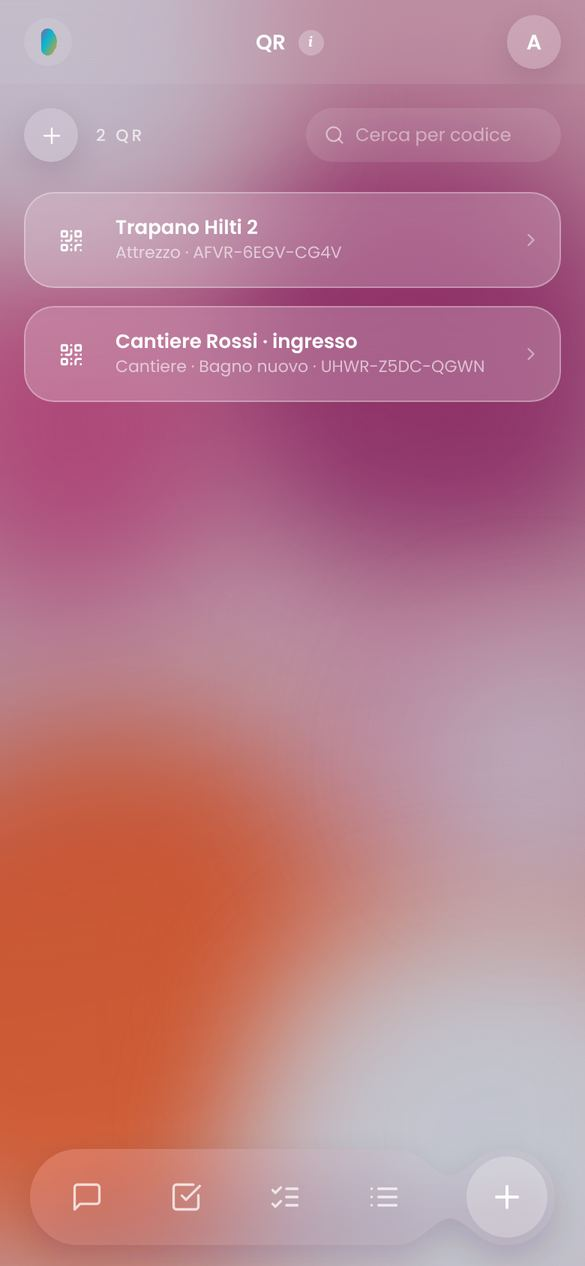
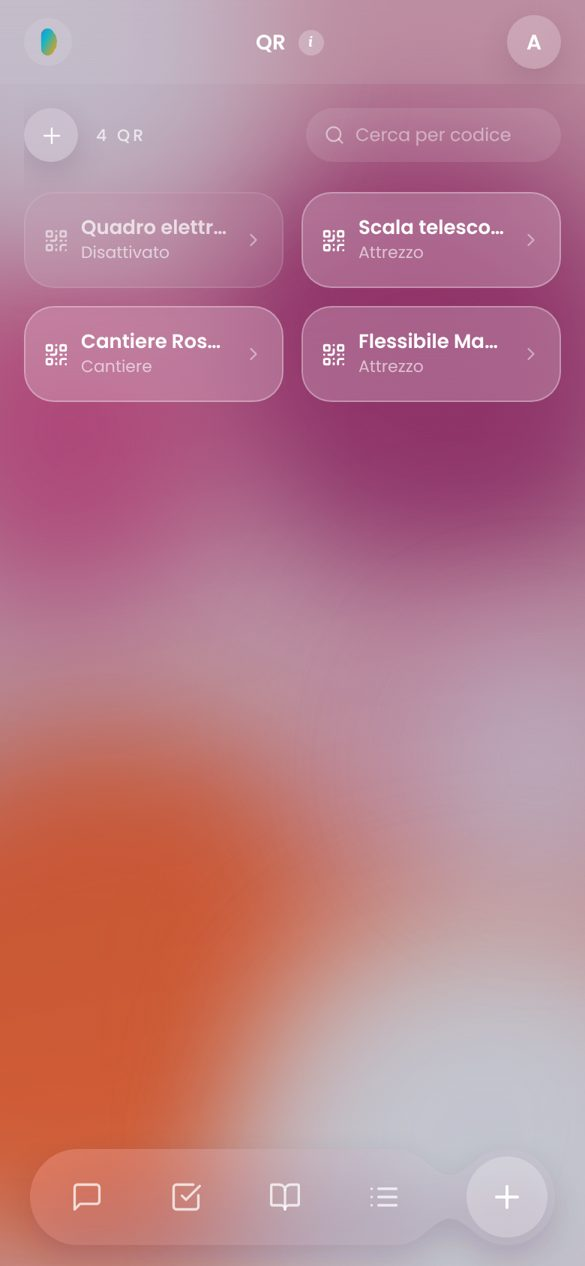
QR: elenco come Impostazioni (attivi / disattivati), dettaglio con solo il QR e i comandi sotto
- Elenco: griglia di due tessere come in Impostazioni, gli attivi in evidenza, i
  disattivati scuri con "Disattivato".
- Dettaglio: in alto freccia e nome del QR; un riquadro con solo il QR; sotto una riga
  con interruttore, stampa, scarica, condividi il link (share del telefono, altrimenti
  copia) e, separati, nuovo codice ed elimina; poi numeri, codice, tipo e contenuto.
- Tolto il pulsante Modifica in alto: "Modifica" accanto a Contenuto apre il modulo lì.
- Guida, FRONTEND.md e schermate aggiornate.

Claude-Session: https://claude.ai/code/session_01VfbXjVrWkHdaUBWCLnfX7C

diff --git a/frontend/src/pages/QrPage.jsx b/frontend/src/pages/QrPage.jsx
@@ -1,7 +1,7 @@
 import React, { useEffect, useRef, useState } from "react";
 import { useNavigate, useSearchParams } from "react-router-dom";
 import { toast } from "sonner";
-import { QrCode, Plus, ArrowLeft, ChevronRight, ChevronDown, Printer, Download, RefreshCw, Trash2, Link2, X, Check, FileText, Upload, Image as ImageIcon, Loader2, MapPin, Box, Crosshair, Search, Tag, Type, Briefcase, Eye, Palette, Maximize2, Pencil, History, Wrench } from "lucide-react";
+import { QrCode, Plus, ArrowLeft, ChevronRight, ChevronDown, Printer, Download, RefreshCw, Trash2, Link2, Share2, X, Check, FileText, Upload, Image as ImageIcon, Loader2, MapPin, Box, Crosshair, Search, Tag, Type, Briefcase, Eye, Palette, Maximize2, Pencil, History, Wrench } from "lucide-react";
 import { api, API } from "@/lib/api";
 import { useAuth } from "@/auth/AuthContext";
 import { phonePosition } from "@/pages/QrScanPage";
@@ -34,19 +34,22 @@ const CHANGED = { tool_item_id: "attrezzo", ar: "realtà aumentata", place: "luo
 // bottom bar under the finger and swallow the tap (see "Crea QR").
 const keepFocus = (e) => e.preventDefault();
 
+// a QR in the list, as the tiles of Impostazioni: the active ones lit, the turned-off ones dim
 function QrTile({ q, onOpen }) {
   return (
-    <div role="button" tabIndex={0} data-testid="qr-tile" onClick={onOpen} onKeyDown={(e) => { if (e.key === "Enter") onOpen(); }}
-      className={`w-full text-left rounded-[20px] px-3 h-[64px] flex items-center gap-3 backdrop-blur-xl cursor-pointer ${q.active ? "bg-white/[0.22] border border-white/30" : "bg-white/[0.07] border border-white/10"}`}>
-      <span className="w-9 h-9 rounded-xl bg-white/[0.12] flex items-center justify-center shrink-0"><QrCode size={17} /></span>
-      <span className="flex-1 min-w-0">
-        <span className="block text-[13px] font-semibold text-white leading-tight truncate" data-testid="qr-tile-title">{q.title}</span>
-        <span className="block text-[11px] text-white/60 leading-tight mt-0.5 truncate">
-          {q.kind_label}{q.visibility === "public" ? " · pubblico" : ""}{q.place?.on ? " · solo sul posto" : ""}{q.commessa ? ` · ${q.commessa.title}` : ""} · {q.code_label}{q.active ? "" : " · disattivato"}
+    <button type="button" data-testid="qr-tile" data-active={q.active ? "true" : "false"} onClick={onOpen}
+      className={`text-left rounded-[20px] px-3 h-[64px] flex flex-col justify-center backdrop-blur-xl transition-colors ${q.active ? "bg-white/[0.22] border border-white/30" : "bg-white/[0.07] border border-white/10"}`}>
+      <span className="flex items-center gap-2">
+        <QrCode size={17} className={`shrink-0 ${q.active ? "text-white" : "text-white/55"}`} />
+        <span className="flex-1 min-w-0">
+          <span className={`block text-[13px] font-semibold leading-tight whitespace-nowrap overflow-hidden text-ellipsis ${q.active ? "text-white" : "text-white/70"}`} data-testid="qr-tile-title">{q.title}</span>
+          <span className="block text-[11px] text-white/60 leading-tight mt-0.5 whitespace-nowrap overflow-hidden text-ellipsis">
+            {q.active ? q.kind_label : "Disattivato"}
+          </span>
         </span>
+        <ChevronRight size={14} className="shrink-0 text-white/45" />
       </span>
-      <ChevronRight size={14} className="shrink-0 text-white/45" />
-    </div>
+    </button>
   );
 }
 
@@ -380,12 +383,7 @@ function QrDetail({ id, commesse, onChanged, onDeleted, onBack }) {
   };
   useEffect(() => { load(); }, [id]); // eslint-disable-line react-hooks/exhaustive-deps
 
-  const back = (
-    <button onClick={onBack} data-testid="qr-back" className="flex items-center gap-1.5 text-sm text-white/70 h-11">
-      <ArrowLeft size={16} /> QR
-    </button>
-  );
-  if (!q) return <>{back}<div className="kicker">caricamento…</div></>;
+  if (!q) return <div className="kicker">caricamento…</div>;
   const set = (data) => { setQ(data); onChanged(data); };
   const act = async (fn, ok) => {
     setBusy(true);
@@ -401,64 +399,77 @@ function QrDetail({ id, commesse, onChanged, onDeleted, onBack }) {
     catch (e) { toast.error(e.response?.data?.detail || "Errore"); }
   });
   const setActive = (on) => act(() => api.patch(`/qr/${q.id}`, { active: on }), on ? "QR riattivato" : "QR disattivato: chi lo scansiona non vede niente");
-  const copyLink = () => { navigator.clipboard?.writeText(q.url); toast.success("Link copiato"); };
+  // the phone's own "share" (WhatsApp, mail...); where there isn't one, the link is copied
+  const shareLink = async () => {
+    if (navigator.share) {
+      try { await navigator.share({ title: q.title, url: q.url }); return; }
+      catch (e) { if (e?.name === "AbortError") return; }
+    }
+    try { await navigator.clipboard?.writeText(q.url); toast.success("Link copiato"); }
+    catch { toast.message(q.url); }
+  };
   const versions = q.versions || [];
   const t = q.tool;
 
   return (
     <div className="flex flex-col gap-3" data-testid="qr-detail">
-      {/* on top: back, and what changes the QR - on/off, edit, new code, delete */}
-      <div className="flex items-center gap-2" data-testid="qr-toolbar">
-        {back}
-        <div className="ml-auto flex items-center gap-2">
-          <IosSwitch checked={!!q.active} onChange={setActive} disabled={busy} label={q.active ? "Attivo: tocca per disattivarlo" : "Disattivato: tocca per riattivarlo"} testid="qr-toggle-active" />
-          <button type="button" onClick={() => setEditing((v) => !v)} aria-pressed={editing} data-testid="qr-edit" title="Modifica" aria-label="Modifica"
-            className={`${ROUND} ${editing ? "bg-white/85 text-[#7A2A5C]" : "bg-white/15 text-white"}`}><Pencil size={17} /></button>
-          <button type="button" onClick={newCode} disabled={busy} data-testid="qr-new-code" title="Nuovo codice" aria-label="Nuovo codice"
-            className={`${ROUND} bg-white/15 text-white`}><RefreshCw size={17} /></button>
-          <button type="button" onClick={remove} disabled={busy} data-testid="qr-delete" title="Elimina" aria-label="Elimina"
-            className={`${ROUND} bg-white/90 text-[#C0262D]`}><Trash2 size={17} /></button>
+      {/* on top: back, with the QR's name */}
+      <div className="flex items-center gap-1.5 min-w-0" data-testid="qr-toolbar">
+        <button onClick={onBack} data-testid="qr-back" aria-label="Torna ai QR" title="Torna ai QR"
+          className="h-10 w-8 -ml-1 shrink-0 flex items-center justify-center text-white/75"><ArrowLeft size={18} /></button>
+        <h2 className="min-w-0 text-[17px] font-semibold text-white leading-tight truncate" data-testid="qr-title-view">{q.title}</h2>
+      </div>
+
+      {/* the QR alone */}
+      <div className="card-soft p-6 flex justify-center" data-testid="qr-image-card">
+        <div className={`bg-white rounded-2xl p-2.5 shadow-sm transition-opacity ${q.active ? "" : "opacity-40"}`}>
+          <img src={q.images.svg} alt={`QR ${q.code_label}`} width={210} height={210} data-testid="qr-image" />
         </div>
       </div>
 
-      {/* the QR, with what identifies it and the three ways to take it out */}
-      <div className="card-soft p-5 flex flex-col gap-4">
-        <div className="flex flex-col items-center gap-3">
-          <div className={`bg-white rounded-2xl p-2.5 shadow-sm ${q.active ? "" : "opacity-50"}`}>
-            <img src={q.images.svg} alt={`QR ${q.code_label}`} width={196} height={196} data-testid="qr-image" />
-          </div>
-          <div className="text-center min-w-0 w-full">
-            <div className="text-lg font-semibold text-white leading-tight break-words" data-testid="qr-title-view">{q.title}</div>
-            <div className="font-mono text-[15px] tracking-wider text-white/85 mt-1" data-testid="qr-code-label">{q.code_label}</div>
-            <div className="flex flex-wrap justify-center gap-1.5 mt-2">
-              <span className="text-[11px] px-2.5 py-1 rounded-full bg-white/10 border border-white/15 text-white/80">{q.kind_label}</span>
-              <span className="text-[11px] px-2.5 py-1 rounded-full bg-white/10 border border-white/15 text-white/80">{q.visibility === "public" ? "Pubblico" : q.visibility === "admins" ? "Solo amministratori" : "Organizzazione"}</span>
-              {q.place?.on && <span className="text-[11px] px-2.5 py-1 rounded-full bg-white/10 border border-white/15 text-white/80">Solo sul posto</span>}
-              {!q.active && <span className="text-[11px] px-2.5 py-1 rounded-full bg-amber-300/15 border border-amber-300/30 text-amber-100" data-testid="qr-inactive">Disattivato</span>}
-            </div>
-          </div>
+      {/* one row: on/off, print, download, share the link - and, apart, new code and delete */}
+      <div className="mt-2 flex items-center justify-center gap-2.5" data-testid="qr-actions">
+        <IosSwitch checked={!!q.active} onChange={setActive} disabled={busy} label={q.active ? "Attivo: tocca per disattivarlo" : "Disattivato: tocca per riattivarlo"} testid="qr-toggle-active" />
+        <button type="button" onClick={() => setPrinting(true)} data-testid="qr-print" title="Stampa l'etichetta" aria-label="Stampa l'etichetta"
+          className={`${ROUND} bg-white/15 text-white`}><Printer size={18} /></button>
+        <a href={q.images.png} download={`QR-${q.code_label}.png`} data-testid="qr-download" title="Scarica il PNG" aria-label="Scarica il PNG"
+          className={`${ROUND} bg-white/15 text-white`}><Download size={18} /></a>
+        <button type="button" onClick={shareLink} data-testid="qr-copy-link" title={`Condividi il link: ${q.url}`} aria-label="Condividi il link"
+          className={`${ROUND} bg-white/15 text-white`}><Share2 size={18} /></button>
+        <span className="w-px h-7 bg-white/25 mx-1.5 shrink-0" aria-hidden="true" />
+        <button type="button" onClick={newCode} disabled={busy} data-testid="qr-new-code" title="Genera un nuovo codice" aria-label="Genera un nuovo codice"
+          className={`${ROUND} bg-white/15 text-white`}><RefreshCw size={18} /></button>
+        <button type="button" onClick={remove} disabled={busy} data-testid="qr-delete" title="Elimina" aria-label="Elimina"
+          className={`${ROUND} bg-white/90 text-[#C0262D]`}><Trash2 size={18} /></button>
+      </div>
+      <div className="text-center text-[12px] text-white/60 -mt-1" data-testid="qr-active-note">
+        {q.active ? "Attivo" : "Disattivato: chi lo scansiona non vede niente"}
+      </div>
+
+      {/* then the numbers and what identifies it */}
+      <div className="mt-3 card-soft p-5">
+        <StatTiles testid="qr-stats">
+          <StatTile label="Scansioni" value={q.scans || 0} testid="qr-stat-scans" />
+          <StatTile label="Foto e PDF" value={(q.files || []).length} testid="qr-stat-files" />
+          <StatTile label="Modifiche" value={versions.length} testid="qr-stat-versions" />
+        </StatTiles>
+        <div className="text-[11px] text-white/55 mt-3" data-testid="qr-last-scan">
+          {q.last_scan_at ? `Ultima scansione ${when(q.last_scan_at)}${q.last_scan_by_name ? ` · ${q.last_scan_by_name}` : ""}` : "Non ancora scansionato"}
         </div>
-        <div className="flex justify-center gap-4">
-          <button type="button" onClick={() => setPrinting(true)} data-testid="qr-print" title="Stampa l'etichetta" aria-label="Stampa l'etichetta"
-            className={`${ROUND} bg-white/90 text-[#7A2A5C]`}><Printer size={18} /></button>
-          <a href={q.images.png} download={`QR-${q.code_label}.png`} data-testid="qr-download" title="Scarica il PNG" aria-label="Scarica il PNG"
-            className={`${ROUND} bg-white/15 text-white`}><Download size={18} /></a>
-          <button type="button" onClick={copyLink} data-testid="qr-copy-link" title={`Copia il link: ${q.url}`} aria-label="Copia il link"
-            className={`${ROUND} bg-white/15 text-white`}><Link2 size={18} /></button>
-        </div>
-        <div className="border-t border-white/10 pt-4">
-          <StatTiles testid="qr-stats">
-            <StatTile label="Scansioni" value={q.scans || 0} testid="qr-stat-scans" />
-            <StatTile label="Foto e PDF" value={(q.files || []).length} testid="qr-stat-files" />
-            <StatTile label="Modifiche" value={versions.length} testid="qr-stat-versions" />
-          </StatTiles>
-          <div className="text-[11px] text-white/55 mt-3" data-testid="qr-last-scan">
-            {q.last_scan_at ? `Ultima scansione ${when(q.last_scan_at)}${q.last_scan_by_name ? ` · ${q.last_scan_by_name}` : ""}` : "Non ancora scansionato"}
-          </div>
+        <div className="mt-4 pt-3 border-t border-white/10 grid grid-cols-2 gap-x-4 gap-y-3">
+          <div className="min-w-0"><div className="text-[12px] text-white/60">Codice</div><div className="font-mono text-[14px] tracking-wider text-white mt-0.5" data-testid="qr-code-label">{q.code_label}</div></div>
+          <div className="min-w-0"><div className="text-[12px] text-white/60">Tipo</div><div className="text-sm text-white mt-0.5">{q.kind_label}</div></div>
         </div>
       </div>
 
-      <div className="pt-2"><GroupTitle>Contenuto</GroupTitle></div>
+      <div className="pt-2 flex items-center justify-between">
+        <GroupTitle>Contenuto</GroupTitle>
+        {!editing && (
+          <button type="button" onClick={() => setEditing(true)} data-testid="qr-edit" className="-mt-1 h-8 px-3 rounded-full bg-white/15 text-[12px] font-medium text-white inline-flex items-center gap-1.5">
+            <Pencil size={13} /> Modifica
+          </button>
+        )}
+      </div>
       {editing ? (
         <QrEditor initial={q} commesse={commesse} onCancel={() => setEditing(false)} onSaved={(d) => { set(d); setEditing(false); }} />
       ) : (
@@ -611,7 +622,7 @@ export default function QrPage() {
           </button>
         </div>
       ) : (
-        <div className="flex flex-col gap-3" data-testid="qr-list">
+        <div className="grid grid-cols-2 gap-3" data-testid="qr-list">
           {list.map((q) => <QrTile key={q.id} q={q} onOpen={() => setParams({ open: q.id })} />)}
         </div>
       )}

diff --git a/backend/help/mAIPAL-help.md b/backend/help/mAIPAL-help.md
@@ -517,13 +517,14 @@ Documenti è la tua **base di conoscenza**: tutto quello che hai caricato con Sa
 I **QR** sono etichette da attaccare in cantiere, su un attrezzo o in un punto (quadro elettrico, locale caldaia). Scansionandolo con il telefono si vedono le informazioni che l'amministratore ha scritto: solo chi è nella tua organizzazione (QR privato) oppure chiunque lo scansioni (QR pubblico).
 - **Chi li gestisce**: la sezione QR la vede solo l'amministratore. Gli altri del team aprono il QR scansionandolo.
 - **Crearne uno**: tocca **+**, dai un nome ("Cantiere Rossi · ingresso", "Trapano Hilti 2"), scegli il tipo (Cantiere, Attrezzo, Punto informativo, Altro), la commessa se c'è, il testo da mostrare (referente, accessi, avvisi) e i link utili (planimetrie, schede, cartella Drive).
-- **La pagina di un QR**: in alto, accanto a «← QR», l'**interruttore** (verde = attivo; spento = chi lo scansiona non vede niente finché non lo riaccendi) e tre pulsanti tondi: **matita** (modifica il contenuto), **frecce** (nuovo codice) e **cestino** (elimina, rosso su bianco). Sotto, il QR con nome, codice, tipo e chi lo vede, le tre icone **stampa**, **scarica** (immagine PNG) e **link** (copia l'indirizzo), i numeri (**Scansioni**, **Foto e PDF**, **Modifiche**) e l'ultima scansione; poi **Contenuto**, **Foto e PDF** e **Storico** (chi ha preso l'attrezzo e le modifiche).
-- **Cambiare il contenuto**: apri il QR e tocca la **matita** in alto. L'etichetta stampata resta la stessa: chi la scansiona vede subito il testo nuovo. In **Modifiche** trovi chi ha cambiato cosa e il testo di prima.
+- **L'elenco dei QR**: due per riga, come le voci di Impostazioni: quelli **attivi** sono chiari e in evidenza, quelli **disattivati** più scuri, con scritto «Disattivato».
+- **La pagina di un QR**: in alto la freccia per tornare e il **nome** del QR; sotto un riquadro con **solo il QR**. Sotto il QR, su una riga: l'**interruttore** (verde = attivo; spento = chi lo scansiona non vede niente finché non lo riaccendi), **stampa**, **scarica** (immagine PNG) e **condividi il link** (WhatsApp, mail…; dove il telefono non lo permette, il link viene copiato); un po' staccati, **genera un nuovo codice** (frecce) ed **elimina** (cestino rosso su bianco). Poi i numeri (**Scansioni**, **Foto e PDF**, **Modifiche**), l'ultima scansione, il **codice** stampato sotto l'etichetta e il tipo; poi **Contenuto**, **Foto e PDF** e **Storico** (chi ha preso l'attrezzo e le modifiche).
+- **Cambiare il contenuto**: tocca **Modifica** accanto a «Contenuto»: il modulo si apre lì. L'etichetta stampata resta la stessa: chi la scansiona vede subito il testo nuovo. In **Modifiche** trovi chi ha cambiato cosa e il testo di prima.
 - **QR di un attrezzo**: scegli il tipo **Attrezzo**. Per gli artigiani c'è la lista **Attrezzatura** (in Liste, condivisa con il team, creata da sola: nome, marca e modello, matricola, note, chi ce l'ha e da quando): nel campo **Attrezzo** scegli quello della lista, oppure lascia **Nuovo** e lo aggiungo io alla lista con il nome del QR. Chi scansiona il QR vede se l'attrezzo è **Disponibile** o chi ce l'ha e da quando, e i pulsanti **Prendi** (o **Lo prendo io**, se ce l'ha un collega) e **Restituisci** (chi ce l'ha, oppure un amministratore per chiunque). La lista Attrezzatura si aggiorna da sola (**Ce l'ha**, **Dal**) e nello **Storico** del QR l'amministratore vede chi l'ha preso e restituito.
 - **Solo in un luogo**: in **Dove si apre** scegli **Solo in un luogo**, poi dal menu **Punto** scegli **La mia posizione adesso** (se sei lì), **Il cantiere della commessa** o **Un indirizzo**, e da **Entro** la distanza (50 m, 100 m, 250 m, 500 m, 1 km). Con l'icona accanto alle coordinate riprendi la posizione. Chi scansiona il QR deve trovarsi entro quella distanza: il telefono chiede la posizione e, se è troppo lontano, mostra a che distanza si trova. Vale anche per le foto e i PDF del QR e anche per i QR pubblici (a chi non è dell'organizzazione non viene mostrato il nome del luogo). Gli amministratori lo aprono ovunque, con un avviso. La posizione serve solo a controllare la distanza e non viene salvata (per chi è dell'organizzazione resta solo la distanza). Attenzione: la posizione la dà il telefono e si può falsificare, quindi è un filtro in più, non una serratura: non usarlo come unica protezione per dati riservati.
 - **Foto e PDF**: nel QR aperto, **Carica file** (dal telefono: galleria, fotocamera o file), fino a 5 file da 10 MB. Per un QR collegato a una commessa puoi scegliere anche **Foto commessa**, senza ricaricarla. Chi scansiona il QR vede le foto e apre i PDF; li vede solo chi può aprire il QR (se è pubblico, chiunque lo scansioni). Alle foto viene tolta la posizione GPS. Un file tolto non si vede più scansionando, ma resta nelle **Modifiche** per l'amministratore; per aggiornare una planimetria, togli la vecchia e carica la nuova: l'etichetta resta la stessa.
 - **Aspetto del QR**: **mAIPAL** (predefinito per i QR nuovi) disegna il QR con la forma a goccia e i colori del logo, con il logo al centro; **Classico** è bianco e nero. Si leggono entrambi con qualsiasi telefono; il classico regge meglio stampe molto piccole o sbiadite. Se cambi aspetto conviene ristampare l'etichetta (quella vecchia si legge ancora). I QR creati prima restano classici.
-- **Stampare**: tocca l'icona della **stampante**: si apre un riquadro dove scegli il lato (3, 5 o 8 cm), poi **Stampa** apre l'etichetta pronta da stampare (anche su foglio adesivo), con il nome e il codice breve sotto il QR. L'icona con la **freccia in giù** la scarica come immagine PNG, quella della **catena** copia il suo indirizzo. Meglio etichette resistenti all'acqua.
+- **Stampare**: tocca l'icona della **stampante**: si apre un riquadro dove scegli il lato (3, 5 o 8 cm), poi **Stampa** apre l'etichetta pronta da stampare (anche su foglio adesivo), con il nome e il codice breve sotto il QR. L'icona con la **freccia in giù** la scarica come immagine PNG, quella di **condivisione** manda il suo indirizzo (o lo copia). Meglio etichette resistenti all'acqua.
 - **Chi lo vede**, lo scegli per ogni QR e lo cambi quando vuoi:
   - **Pubblico**: chiunque lo scansioni, anche senza account (clienti, fornitori, visitatori: per esempio il cartello di cantiere con orari e contatti). Vede solo titolo, testo e link che hai scritto: commessa, cliente e chi l'ha modificato non vengono mostrati. Non scriverci codici o dati riservati.
   - **Solo organizzazione**: chi è nella tua organizzazione, dopo l'accesso a mAIPAL. Per tutti gli altri il QR "non è disponibile", come un codice sbagliato.

diff --git a/docs/FRONTEND.md b/docs/FRONTEND.md
@@ -300,12 +300,13 @@ Sono dentro la sezione Task (vista To-Do, capitolo 4.3). `TodoFolders.jsx` tiene
 
 <img src="screens/m18-qr.jpg" width="230"> <img src="screens/m19-qr-dettaglio.jpg" width="230"> <img src="screens/d06-qr.jpg" width="460">
 
-- **Elenco**: «+» per un nuovo QR, il conteggio e il campo **«Cerca per codice»**; una riga per QR con tipo e codice.
+- **Elenco**: «+» per un nuovo QR, il conteggio e il campo **«Cerca per codice»**; i QR in una griglia di due tessere come quelle di Impostazioni (attivo: `bg-white/[0.22]`, disattivato: scuro con «Disattivato»).
 - **Un QR**:
-  - in alto, accanto a «← QR»: l'interruttore Attivo (`IosSwitch`) e i pulsanti tondi Modifica, Nuovo codice, Elimina (cestino rosso su bianco, leggibile sullo sfondo);
-  - il QR su fondo bianco, con nome, codice ed etichette; tre icone: **stampa** (apre `PrintSheet`, un `GlassBottomSheet` con il lato 3/5/8 cm), **scarica** PNG, **copia il link**;
-  - gli indicatori Scansioni / Foto e PDF / Modifiche;
-  - sotto: Contenuto (per un attrezzo: chi ce l'ha), Foto e PDF, Storico (chi ha preso l'attrezzo, le modifiche).
+  - in alto la freccia e il nome del QR;
+  - un riquadro con solo il QR (attenuato se disattivato);
+  - una riga di comandi: interruttore Attivo (`IosSwitch`), stampa (apre `PrintSheet`, il lato 3/5/8 cm), scarica PNG, condividi il link (`navigator.share`, altrimenti copia); dopo un separatore, nuovo codice ed elimina (cestino rosso su bianco);
+  - gli indicatori Scansioni / Foto e PDF / Modifiche, ultima scansione, codice e tipo;
+  - sotto: Contenuto (con «Modifica» accanto al titolo; per un attrezzo: chi ce l'ha), Foto e PDF, Storico (chi ha preso l'attrezzo, le modifiche).
 - **Nuovo / modifica**: per il tipo Attrezzo c'è il campo **Attrezzo** (`GET /qr/tools`: la lista Attrezzatura); «Nuovo» lo aggiunge alla lista con il nome del QR.
 - **`/q/:codice`**: la pagina che si apre scansionando, anche per chi non ha l'app se il QR è pubblico: il contenuto da leggere (titolo grande, testo, foto, PDF e link), il controllo del luogo e, per un attrezzo, il riquadro con chi ce l'ha e **Prendi** / **Restituisci** (`POST /qr/scan/{codice}/tool`).
 - La **realtà aumentata** è tolta dall'interfaccia (`QrArViewer.jsx` e `lib/arPose.js` restano nel codice, non più caricati; il server conserva le impostazioni).
